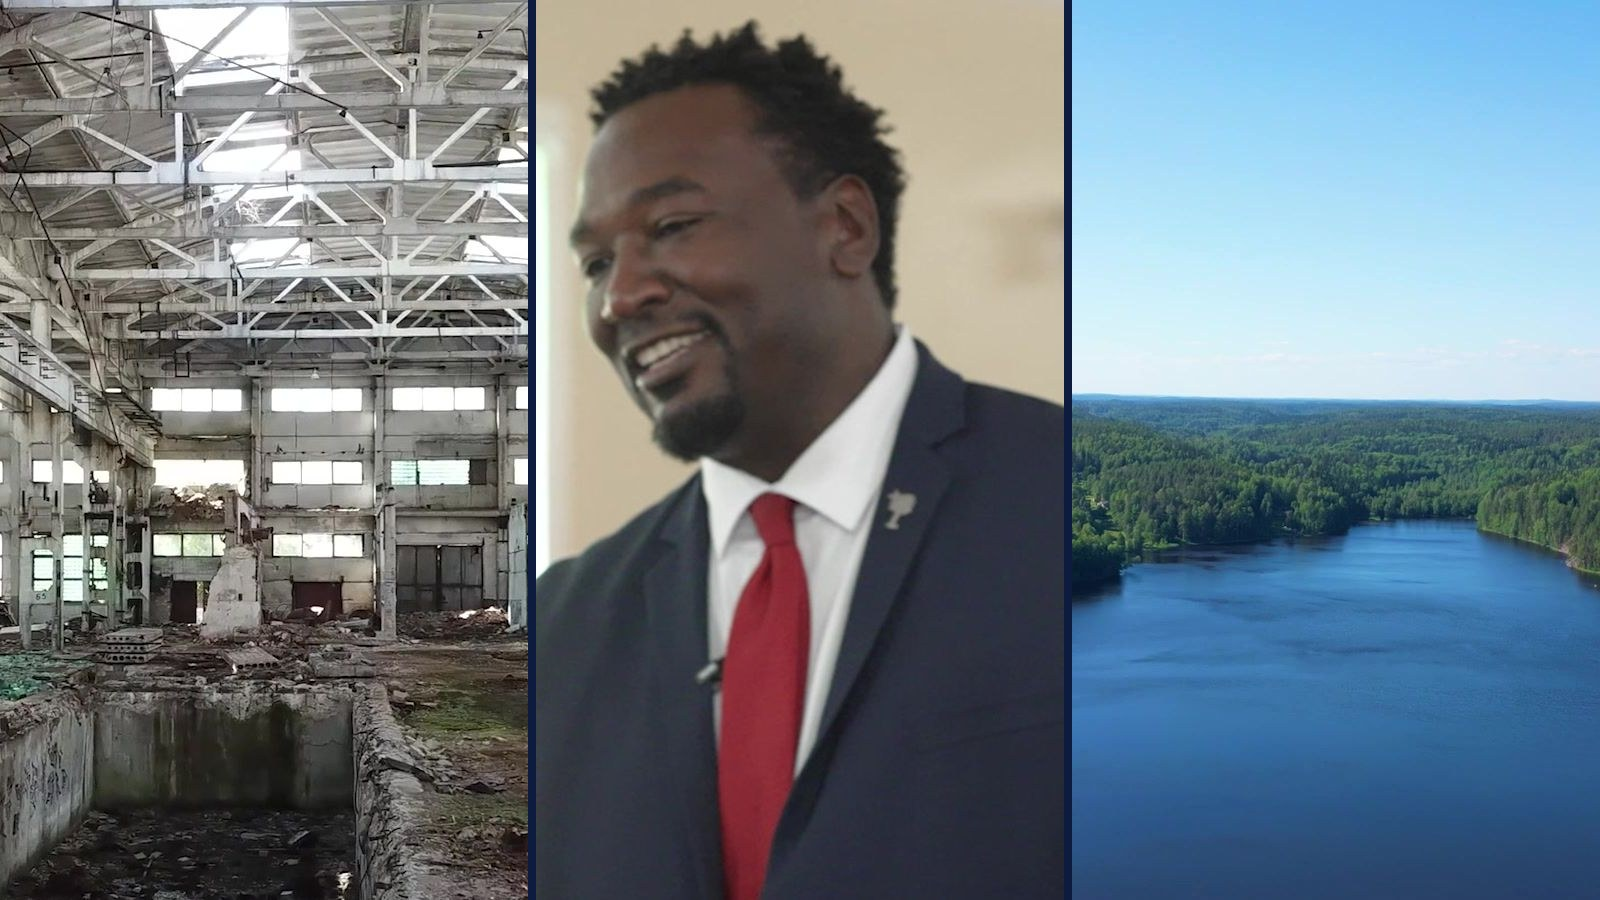
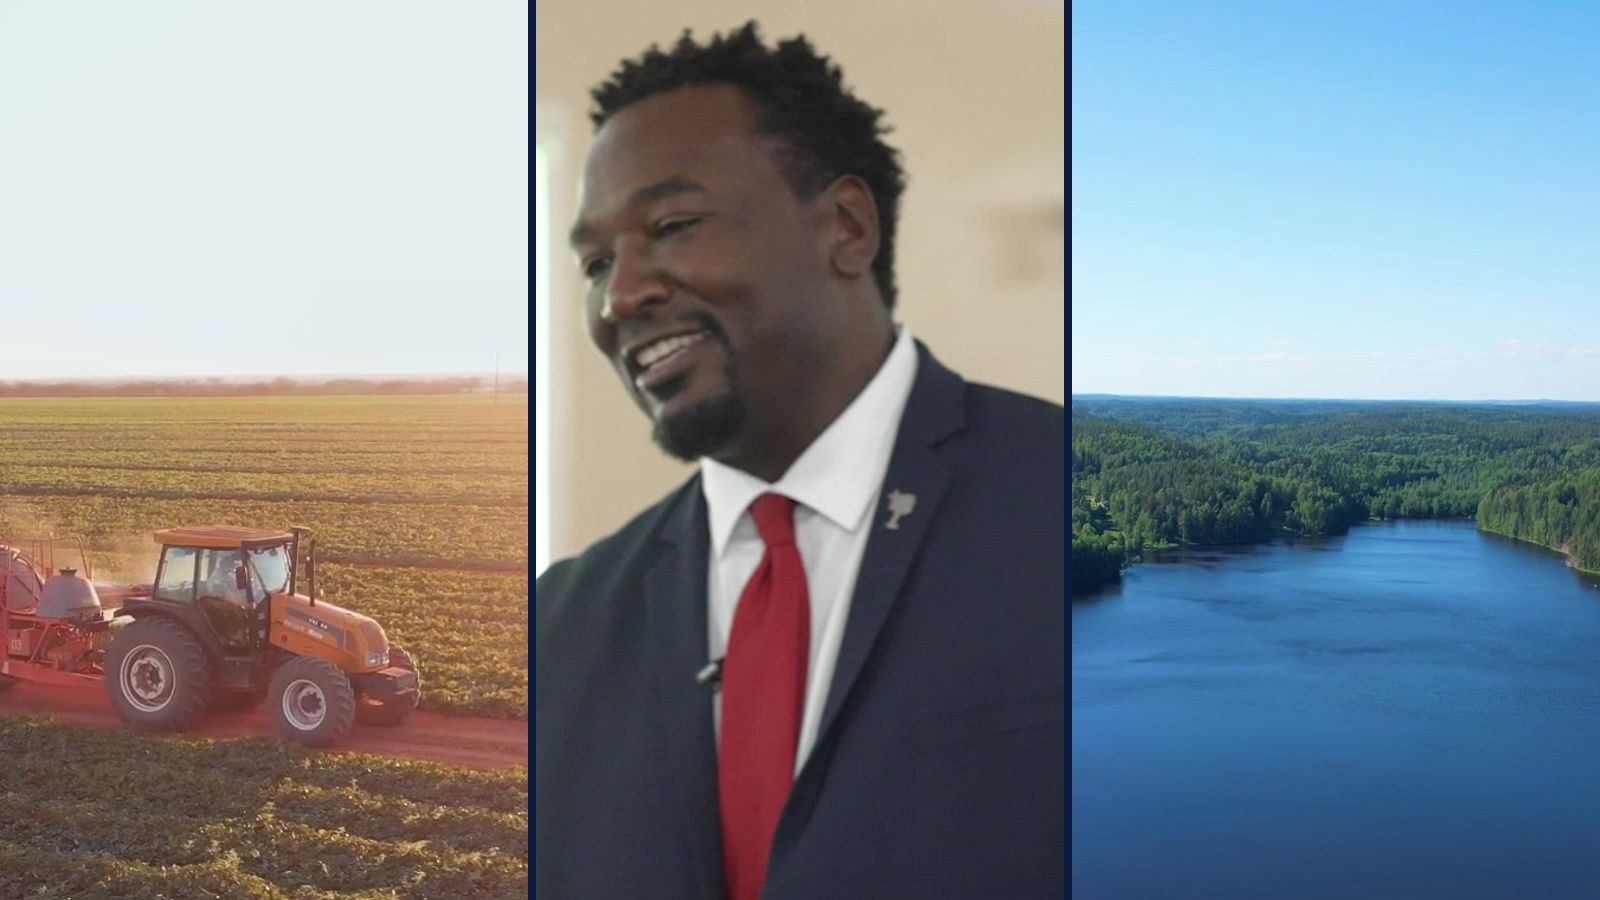
feat(home): hero tuning — America 250 callout, random start, party progress bar
- Carousel: rotate every 7s; start on a RANDOM film each load (never favour a
  party); hold blank ~1s, then the first film scrolls in from the right;
  active progress pill takes the current film's party colour and scales to N.
- Pricing: replace the "Running for office?" callout with the earlier
  America 250 Special card; fix its "standard rate" wording to "$1,999".
- Shift the hero down on all breakpoints.
- Stitched posters: Resiliency left panel -> 0:09 tractor-at-sunrise; SHASM
  right panel -> UNANIMOUS (whole card over a blurred fill so the text fits).
- OUR WORK: reframe copy to "public showcase coming soon"; keep the films as a
  preview and keep every #our-work link pointing here (pivot to a dedicated
  page later).

diff --git a/src/components/sections/home/hero-trials/HeroCarousel.tsx b/src/components/sections/home/hero-trials/HeroCarousel.tsx
@@ -10,17 +10,21 @@ import { showcaseVideos } from "@/components/sections/home/ShowcaseSection";
 /**
  * Trial visual D (rework): a rotating carousel of our films that ALWAYS advances
  * in the same direction. The current card is centered with the next peeking in;
- * every 8s it steps forward, the outgoing card fading transparently. To keep the
+ * every 7s it steps forward, the outgoing card fading transparently. To keep the
  * direction consistent with only two films today, the first card is cloned onto
  * the end — the track advances past the last real card onto the clone, then
  * snaps back to the start with animation off, so it reads as one continuous
  * forward loop. Drops in more films with no code change. Same horizontal effect
  * on every breakpoint (no stacked cards on mobile), so pricing stays close.
- * Reduced-motion holds on card one.
+ *
+ * On load it starts on a RANDOM film (so we never favour one party over another)
+ * and holds off-screen for ~1s before the first film scrolls in from the right.
+ * Reduced-motion holds still, on that random film.
  */
 const CARD_FRACTION = 0.84; // card width as a share of the viewport (~16% peek)
 const GAP = 16;
-const STEP_MS = 8000;
+const STEP_MS = 7000;
+const INTRO_MS = 1000; // hold blank this long, then the first film scrolls in
 
 export function HeroCarousel() {
   const vpRef = useRef<HTMLDivElement>(null);
@@ -28,6 +32,7 @@ export function HeroCarousel() {
   const [index, setIndex] = useState(0);
   const [animate, setAnimate] = useState(true);
   const [paused, setPaused] = useState(false);
+  const [revealed, setRevealed] = useState(false);
 
   const N = showcaseVideos.length;
   const cards = [...showcaseVideos, showcaseVideos[0]]; // clone first onto the end
@@ -40,14 +45,27 @@ export function HeroCarousel() {
     return () => ro.disconnect();
   }, []);
 
-  // Auto-advance forward every STEP_MS (skip when reduced motion is preferred or
-  // the viewer has paused the rotation — WCAG 2.2.2, moving content over 5s).
+  // Pick a random starting film (post-mount, so no hydration mismatch and no
+  // party favoured), then reveal after the intro delay. setState lives in async
+  // callbacks (rAF/timeout), never synchronously in the effect body.
   useEffect(() => {
-    if (paused) return;
+    const reduced = window.matchMedia("(prefers-reduced-motion: reduce)").matches;
+    const raf = requestAnimationFrame(() => setIndex(Math.floor(Math.random() * N)));
+    const t = setTimeout(() => setRevealed(true), reduced ? 0 : INTRO_MS);
+    return () => {
+      cancelAnimationFrame(raf);
+      clearTimeout(t);
+    };
+  }, [N]);
+
+  // Auto-advance forward every STEP_MS once revealed (skip when reduced motion is
+  // preferred or the viewer paused — WCAG 2.2.2, moving content over 5s).
+  useEffect(() => {
+    if (!revealed || paused) return;
     if (window.matchMedia("(prefers-reduced-motion: reduce)").matches) return;
     const t = setInterval(() => setIndex((i) => i + 1), STEP_MS);
     return () => clearInterval(t);
-  }, [paused]);
+  }, [revealed, paused]);
 
   // When we land on the cloned card (index === N), let the slide finish, then
   // snap back to the real first card with animation disabled for one frame.
@@ -77,6 +95,9 @@ export function HeroCarousel() {
   const cardW = vw ? vw * CARD_FRACTION : 0;
   const step = cardW + GAP;
   const activeDot = index % N;
+  // Before reveal, push the whole reel one viewport to the right so the frame is
+  // blank; on reveal it slides back to 0 and the first film scrolls in.
+  const introOffset = revealed ? 0 : vw || 2000;
 
   return (
     <div className="relative">
@@ -84,11 +105,13 @@ export function HeroCarousel() {
 
       <div ref={vpRef} className="overflow-hidden">
         <div
-          className="flex"
+          className="flex transition-transform duration-700 ease-out motion-reduce:transition-none"
           style={{
             gap: `${GAP}px`,
-            transform: vw ? `translateX(${-index * step}px)` : undefined,
-            transition: animate ? "transform 700ms cubic-bezier(0.4,0,0.2,1)" : "none",
+            transform: `translateX(${-index * step + introOffset}px)`,
+            // Inline "none" wins for the snap-back frame; otherwise the class
+            // controls it, so motion-reduce still disables the transition.
+            transition: animate ? undefined : "none",
           }}
         >
           {cards.map((v, i) => {
@@ -97,13 +120,13 @@ export function HeroCarousel() {
               <Link
                 key={`${v.id}-${i}`}
                 href="/#our-work"
-                className="shrink-0 rounded-xl bg-white/[0.055] shadow-2xl ring-1 ring-white/15"
+                className="shrink-0 rounded-xl bg-white/[0.055] shadow-2xl ring-1 ring-white/15 transition-opacity duration-700 ease-out motion-reduce:transition-none"
                 style={{
                   width: vw ? `${cardW}px` : `${CARD_FRACTION * 100}%`,
                   opacity: isActive ? 1 : 0.32,
-                  // Fade with the slide, but hold opacity instant during the
-                  // snap-back frame (animate=false) so card one never flashes.
-                  transition: animate ? "opacity 700ms cubic-bezier(0.4,0,0.2,1)" : "none",
+                  // Hold opacity instant during the snap-back frame so card one
+                  // never flashes; the class otherwise fades it with the slide.
+                  transition: animate ? undefined : "none",
                 }}
                 aria-hidden={!isActive}
                 tabIndex={isActive ? 0 : -1}
@@ -148,7 +171,12 @@ export function HeroCarousel() {
           <span
             key={v.id}
             className="h-1.5 rounded-full transition-all duration-500"
-            style={{ width: i === activeDot ? 22 : 8, backgroundColor: i === activeDot ? "#7AB8FF" : "rgba(232,244,248,0.3)" }}
+            style={{
+              width: i === activeDot ? 22 : 8,
+              // Active pill takes the current film's party colour (matches the
+              // party tag on the card); scales automatically as films are added.
+              backgroundColor: i === activeDot ? v.partyColor : "rgba(232,244,248,0.3)",
+            }}
           />
         ))}
         <span className="ml-auto text-xs text-beacon-white/50">More films dropping soon</span>

diff --git a/src/components/sections/home/hero-trials/HeroPriceTease.tsx b/src/components/sections/home/hero-trials/HeroPriceTease.tsx
@@ -1,16 +1,11 @@
-"use client";
-
-import Link from "next/link";
-import { ArrowRight } from "lucide-react";
+import { America250Popup } from "./America250Popup";
 
 /**
  * In-hero pricing anchor. The home page leads on ONE number — the $1,999 flat
- * starting rate. Directly beneath it sits a quiet callout that keeps the
- * candidate-campaign mission discount available (part of the America 250
- * Special) without letting it upstage the anchor — the way SaaS keeps a
- * nonprofit/education rate visible but never leads with it. Both boxes share the
- * same subtle surface for legibility; the "2026 Cycle" sticker is the only pop.
- * Nonprofit/mission pricing is deliberately absent here.
+ * starting rate — and, directly beneath it, the America 250 Special card (buy
+ * two, first for $250), which Tom moved into this slot in place of the earlier
+ * "Running for office?" candidate-discount teaser. Nonprofit/mission and
+ * candidate pricing live on their own pages, not the hero.
  */
 export function HeroPriceTease() {
   return (
@@ -28,27 +23,8 @@ export function HeroPriceTease() {
         </div>
       </div>
 
-      {/* candidate mission-discount callout — same surface as the anchor for
-          readability; the angled sticker carries the accent */}
-      <div className="relative rounded-2xl border border-white/12 bg-white/[0.04] p-4">
-        <span
-          className="absolute -right-2.5 -top-3 rotate-[8deg] rounded-md bg-liberty-crimson px-2.5 py-1 text-[10px] font-extrabold uppercase tracking-wide text-white shadow-lg ring-1 ring-white/40"
-        >
-          2026 Cycle
-        </span>
-        <h3 className="font-heading text-base font-bold text-beacon-white">Running for office?</h3>
-        <p className="mt-1.5 text-xs leading-snug text-beacon-white/70">
-          Candidate campaigns receive a mission discount this cycle — part of our
-          America&nbsp;250 Special.
-        </p>
-        <Link
-          href="/for/candidates"
-          className="mt-2.5 inline-flex items-center gap-1 text-sm font-semibold text-horizon-azure hover:underline"
-        >
-          See candidate pricing
-          <ArrowRight className="h-3.5 w-3.5" />
-        </Link>
-      </div>
+      {/* the earlier America 250 Special callout, in place of the candidate teaser */}
+      <America250Popup />
     </div>
   );
 }

diff --git a/src/components/sections/home/ShowcaseSection.tsx b/src/components/sections/home/ShowcaseSection.tsx
@@ -237,11 +237,12 @@ export function ShowcaseSection() {
           <div className="text-center mb-12">
             <SectionLabel text="Our Work" color="horizon" />
             <h2 className="font-heading font-extrabold text-3xl sm:text-[40px] md:text-[48px] md:leading-tight text-beacon-white tracking-[-1.5px] mt-3 mb-4">
-              Yes, we use this tool ourselves. Take a look.
+              Our public showcase is coming soon.
             </h2>
             <p className="font-body font-semibold text-lg text-beacon-white/90 max-w-[720px] mx-auto leading-relaxed">
-              Our founding team uses CampaignAI for our own missions. Here are
-              several stories we&apos;ve told about issues that matter to us.
+              Our founding team uses CampaignAI for our own campaigns, and we&apos;re
+              building a dedicated showcase of the work. For now, here are a couple
+              of the films we&apos;ve made.
             </p>
           </div>
         </ScrollReveal>

diff --git a/src/components/sections/home/hero-trials/HeroTrialShell.tsx b/src/components/sections/home/hero-trials/HeroTrialShell.tsx
@@ -35,7 +35,7 @@ export function HeroTrialShell({
 
       <HeroSparkleSpread />
 
-      <div className="mx-auto grid min-h-[calc(100svh-var(--announce-h))] max-w-7xl grid-cols-1 content-center gap-8 px-4 pb-12 pt-36 sm:px-6 sm:pt-28 lg:grid-cols-2 lg:grid-rows-[auto_auto] lg:items-center lg:gap-x-14 lg:gap-y-6 lg:px-8 lg:pt-24">
+      <div className="mx-auto grid min-h-[calc(100svh-var(--announce-h))] max-w-7xl grid-cols-1 content-center gap-8 px-4 pb-12 pt-44 sm:px-6 sm:pt-40 lg:grid-cols-2 lg:grid-rows-[auto_auto] lg:items-center lg:gap-x-14 lg:gap-y-6 lg:px-8 lg:pt-40">
         {/* copy — mobile first; lg top-left */}
         <div className="lg:col-start-1 lg:row-start-1 lg:self-end">
           <HeroLeadCopy />

diff --git a/src/components/sections/home/hero-trials/America250Popup.tsx b/src/components/sections/home/hero-trials/America250Popup.tsx
@@ -93,7 +93,7 @@ export function America250Popup({ className = "" }: { className?: string }) {
           <span className="text-horizon-azure">$250</span>.
         </p>
         <p className="mt-1.5 text-[11px] leading-snug text-beacon-white/70">
-          Your second is billed at your standard rate.
+          Your second is billed at the full $1,999.
         </p>
 
         <Button
